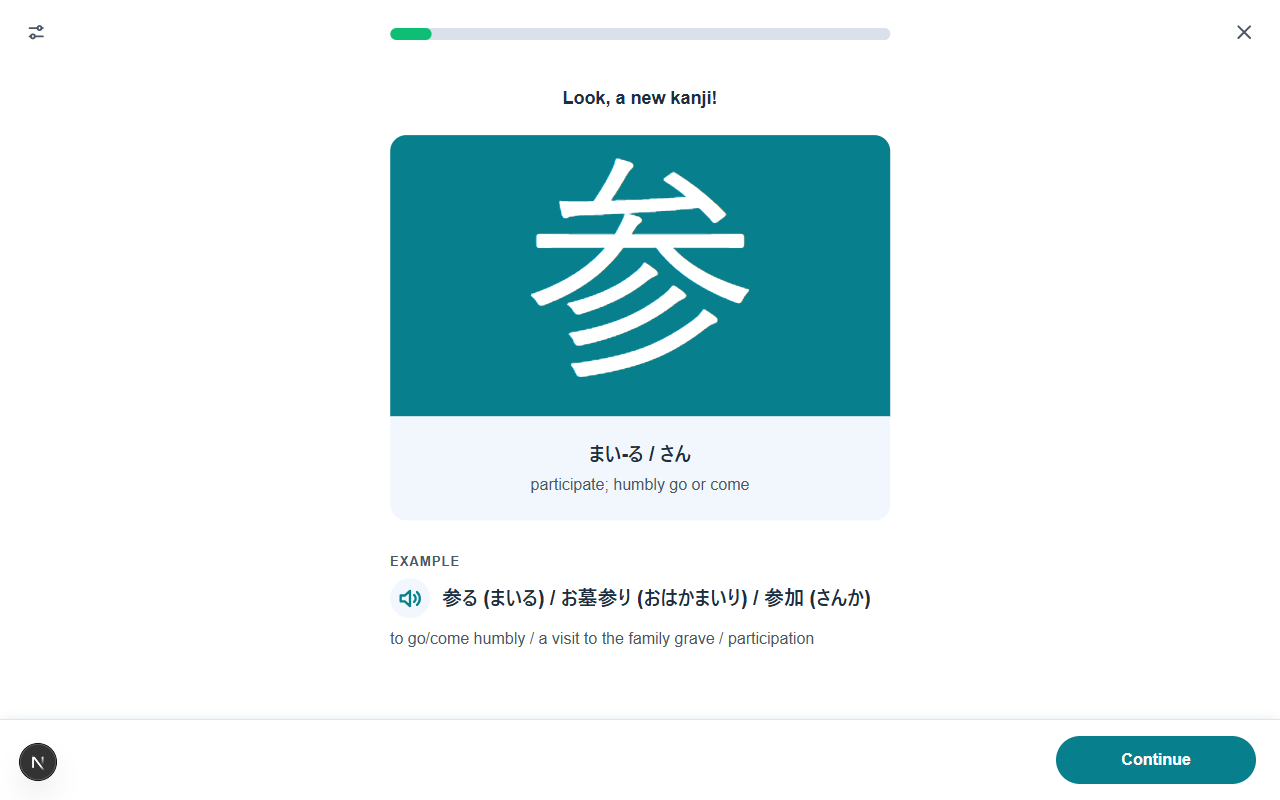
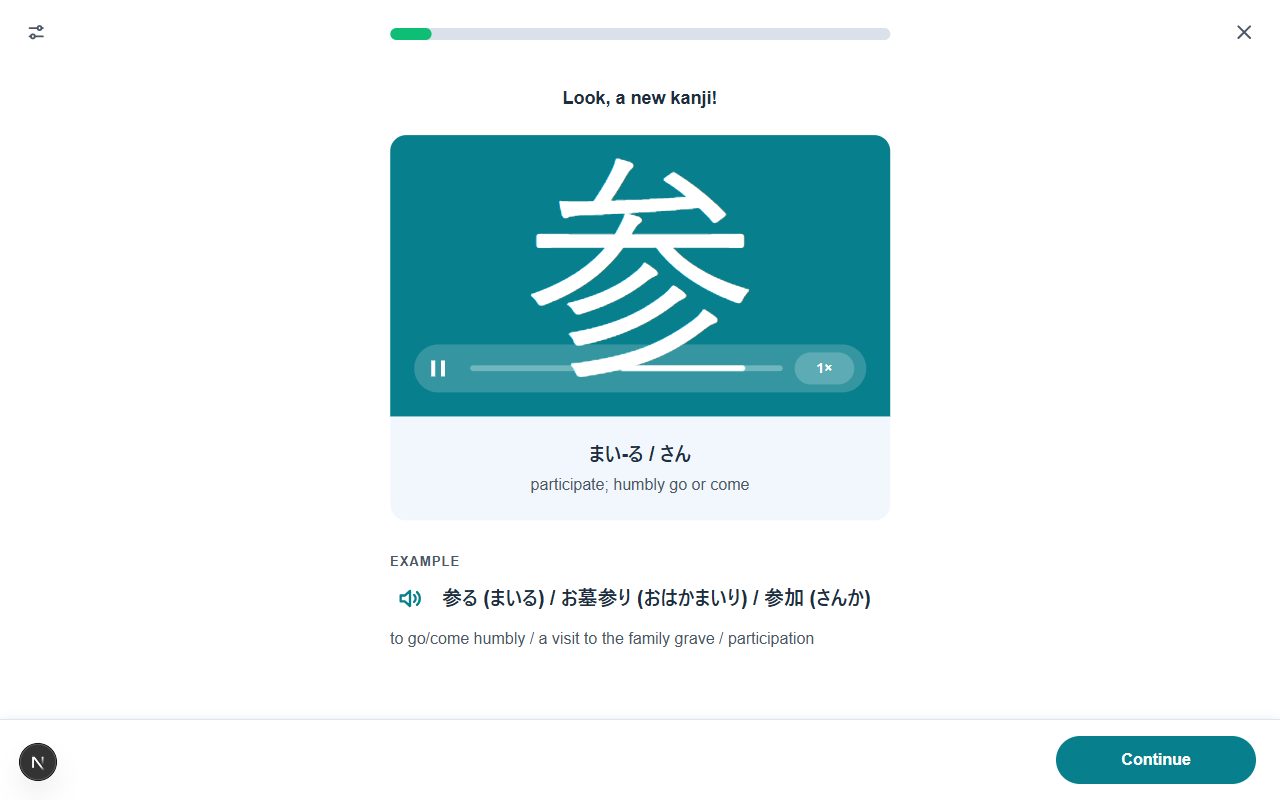
kanji tts fixes

Changed region(s): [[0.3125, 0.4062, 0.6875, 0.5]]

diff --git a/apps/web/components/busuu/LessonRunner.tsx b/apps/web/components/busuu/LessonRunner.tsx
@@ -5,7 +5,7 @@ import { createClient } from '@/utils/supabase/client';
 import { localWalkthroughAuthClient } from '@/lib/busuu/local-walkthrough';
 import { COURSE_EDGE_VOICES, CourseAudioAdapter, readCourseAudioPreferences, type CourseAudioState } from '@/lib/busuu/audio';
 import { createBrowserClipStore } from '@/lib/busuu/audio-cache';
-import { getScreenPlayback, planLessonPrefetch } from '@/lib/busuu/audio-plan';
+import { getKanjiExamplesPlayback, getScreenPlayback, planLessonPrefetch } from '@/lib/busuu/audio-plan';
 import { getAudioScript, getSceneReuse, getScreenAudioGaps, getScreenContentGaps } from '@/lib/busuu/content-readiness';
 import { canContinue, createLessonState, getCurrentOutcome, getLessonResult, getPassOutcome, transitionLesson, type LessonAction } from '@/lib/busuu/runner';
 import { getActivityProgress, getFeedbackHeading, getFeedbackSupport, getFeedbackTargets, handleLessonKey, highlightSegments, isCheckpointPack } from '@/lib/busuu/lesson-presentation';
@@ -65,6 +65,7 @@ export default function LessonRunner({ pack, preview, title, returnHref, onExit 
   const [authChecked, setAuthChecked] = useState(false);
   const [confirmExit, setConfirmExit] = useState(false);
   const [voiceOpen, setVoiceOpen] = useState(false); // appended after the existing state hooks: tests rely on their order
+  const [playing, setPlaying] = useState<'source' | 'examples'>('source'); // which kanji control owns the adapter's current playback
   const adapter = useRef<CourseAudioAdapter | null>(null);
   const owner = useRef<string | null | undefined>(undefined);
   const screen = pack.screens[state.index];
@@ -109,15 +110,16 @@ export default function LessonRunner({ pack, preview, title, returnHref, onExit 
     return () => { subscription.unsubscribe(); window.removeEventListener('pagehide', retire); audio.dispose(); adapter.current = null; session.current?.dispose(); session.current = null; owner.current = undefined; };
   }, [pack, preview]);
 
-  const play = useCallback(async (feedback = false) => {
+  const play = useCallback(async (feedback = false, which: 'source' | 'examples' = 'source') => {
     const audio = adapter.current;
-    const playback = screen && getScreenPlayback(pack, screen, preferences, speed, feedback);
+    const playback = screen && (!feedback && which === 'examples' ? getKanjiExamplesPlayback(screen, preferences, speed) : getScreenPlayback(pack, screen, preferences, speed, feedback));
     if (!playback || !audio || !active) return;
     const screenId = screen.screenId;
+    setPlaying(feedback ? 'source' : which); // requested before the adapter reports its state, so the kanji screen shows only the control that started
     audio.setScreen(screenId);
     const played = playback.kind === 'dialogue' ? await audio.playDialogue(playback.items) : playback.kind === 'words' ? await audio.playSequence(playback.items, playback.gapMs) : await audio.play(playback.item);
     // Playback is optional now, but a completed play still records audio_ready exactly as before so event streams keep their shape.
-    if (played && !feedback) dispatch({ type: 'audio_ready', screenId });
+    if (played && !feedback && which === 'source') dispatch({ type: 'audio_ready', screenId });
   }, [pack, screen, active, preferences, speed, dispatch]);
 
   // Silent background prefetch of the whole lesson's audio into the persistent clip cache, current screen first. It renders and
@@ -297,7 +299,13 @@ export default function LessonRunner({ pack, preview, title, returnHref, onExit 
   const showPlayer = !screen.sceneContext && screen.audio.beforeAnswer !== false && (screen.audio.required || getAudioScript(sceneSource ?? screen));
   const playLabel = audioState.status === 'loading' ? 'Cancel audio' : audioState.status === 'playing' ? 'Pause audio'
     : audioState.status === 'error' ? 'Retry audio' : sceneSource ? 'Replay scene' : 'Replay audio';
-  const kanjiLabel = audioState.status === 'loading' ? 'Cancel audio' : audioState.status === 'playing' ? 'Pause audio' : audioState.status === 'error' ? 'Retry audio' : 'Play examples';
+  // The kanji screen has two controls on one adapter: each shows its own state only while it owns the current playback, the other stays idle.
+  const kanjiPlayer = (which: 'source' | 'examples', noun: string, idle: string) => {
+    const status = playing === which ? audioState.status : 'idle';
+    return { status, disabled: !accountReady || !getAudioScript(screen),
+      label: status === 'loading' ? `Cancel ${noun}` : status === 'playing' ? `Pause ${noun}` : status === 'error' ? `Retry ${noun}` : idle,
+      onToggle: () => status === 'loading' || status === 'playing' ? void adapter.current?.cancel() : play(false, which) };
+  };
   const onToggle = () => audioState.status === 'loading' || audioState.status === 'playing' ? void adapter.current?.cancel() : play();
   const continueNow = () => { adapter.current?.cancel(); dispatch({ type: 'continue', screenId: screen.screenId }); };
   return <main id="course-main" className={styles.shell} ref={shell}>
@@ -327,7 +335,9 @@ export default function LessonRunner({ pack, preview, title, returnHref, onExit 
         <details><summary>View missing fields · {contentGaps.length + audioGaps.length}</summary>
           <ul>{[...contentGaps, ...audioGaps].map((g, i) => <li key={i}>{g.field}: {g.reason}</li>)}</ul></details></aside>}
       {screen.renderer === 'kanji' && screen.kanji
-        ? (contentGaps.length === 0 || state.preview) && <KanjiCard screen={screen} audio={showPlayer ? { status: audioState.status, label: kanjiLabel, disabled: !accountReady || !getAudioScript(screen), onToggle } : null} />
+        ? (contentGaps.length === 0 || state.preview) && <KanjiCard screen={screen} audio={showPlayer ? {
+          readings: kanjiPlayer('source', 'kanji readings', 'Play kanji readings'), examples: kanjiPlayer('examples', 'examples', 'Play examples'),
+          speed, onSpeed: next => { adapter.current?.cancel(); setSpeed(next); }, message: audioState.message, error: audioGaps.length === 0 && audioState.status === 'error' } : null} />
         : (screen.visual !== 'none' || showPlayer) && <div className={styles.mediaCard}>
         {screen.visual !== 'none' && <div className={styles.visualPlaceholder} aria-hidden="true">
           <svg viewBox="0 0 120 80"><circle cx="60" cy="27" r="12" /><path d="M32 68c0-24 56-24 56 0" /></svg>

diff --git a/apps/web/lib/busuu/audio-plan.ts b/apps/web/lib/busuu/audio-plan.ts
@@ -1,4 +1,4 @@
-import { getAudioReading, getAudioScript, getAudioWordList, getSceneReuse } from './content-readiness';
+import { getAudioReading, getAudioScript, getAudioWordList, getKanjiExampleClips, getSceneReuse } from './content-readiness';
 import type { CourseAudioItem } from './audio';
 import type { LessonContentPack, LessonContentScreen } from './types';
 
@@ -7,7 +7,7 @@ export type CoursePlaybackPreferences = { provider: 'edge' | 'voicevox'; edgeVoi
 export const WORD_GAP_MS = 800;
 export type ScreenPlayback = { kind: 'dialogue'; items: CourseAudioItem[] } | { kind: 'single'; item: CourseAudioItem } | { kind: 'words'; items: CourseAudioItem[]; gapMs: number };
 export const playbackItems = (playback: ScreenPlayback): CourseAudioItem[] => playback.kind === 'single' ? [playback.item] : playback.items;
-export type PlannedClip = { screenId: string; screenIndex: number; role: 'source' | 'feedback'; item: CourseAudioItem };
+export type PlannedClip = { screenId: string; screenIndex: number; role: 'source' | 'examples' | 'feedback'; item: CourseAudioItem };
 
 /**
  * The single definition of what a screen plays (source audio or corrected-sentence feedback), shared by the Replay/Check handler
@@ -27,11 +27,20 @@ export function getScreenPlayback(pack: LessonContentPack, screen: LessonContent
   // Feedback replays the same list only when it is the same text (its split readings are then the screen's own); anything else stays a single clip.
   const words = !feedback ? getAudioWordList(source) : screen.audio.feedbackText === screen.audio.text ? getAudioWordList(screen) : null;
   if (words) {
-    return { kind: 'words', gapMs: WORD_GAP_MS, items: words.map(word => ({ text: word.text, reading: word.reading, provider: preferences.provider,
-      voice: preferences.provider === 'edge' ? preferences.edgeVoice : preferences.voiceVoxId, speed })) };
+    return wordsPlayback(words, preferences, speed);
   }
   return { kind: 'single', item: { text, reading: feedback ? undefined : getAudioReading(source), provider: preferences.provider,
     voice: preferences.provider === 'edge' ? preferences.edgeVoice : preferences.voiceVoxId, speed } };
+}
+
+const wordsPlayback = (words: { text: string; reading: string }[], preferences: CoursePlaybackPreferences, speed: number): ScreenPlayback => ({
+  kind: 'words', gapMs: WORD_GAP_MS, items: words.map(word => ({ text: word.text, reading: word.reading, provider: preferences.provider,
+    voice: preferences.provider === 'edge' ? preferences.edgeVoice : preferences.voiceVoxId, speed })) });
+
+/** On-demand second playback of a kanji screen: its example words as a word sequence (the source playback, which autoplays, is the readings). Null elsewhere. */
+export function getKanjiExamplesPlayback(screen: LessonContentScreen, preferences: CoursePlaybackPreferences, speed: number): ScreenPlayback | null {
+  const words = screen.renderer === 'kanji' ? getKanjiExampleClips(screen) : null;
+  return words ? wordsPlayback(words, preferences, speed) : null;
 }
 
 const identityOf = (item: CourseAudioItem) => JSON.stringify([item.provider, item.voice, item.reading ?? '', item.text]);
@@ -40,8 +49,8 @@ const identityOf = (item: CourseAudioItem) => JSON.stringify([item.provider, ite
 function allClips(pack: LessonContentPack, preferences: CoursePlaybackPreferences, speed: number): PlannedClip[] {
   const clips: PlannedClip[] = [];
   pack.screens.forEach((screen, screenIndex) => {
-    for (const role of ['source', 'feedback'] as const) {
-      const playback = getScreenPlayback(pack, screen, preferences, speed, role === 'feedback');
+    for (const role of ['source', 'examples', 'feedback'] as const) {
+      const playback = role === 'examples' ? getKanjiExamplesPlayback(screen, preferences, speed) : getScreenPlayback(pack, screen, preferences, speed, role === 'feedback');
       for (const item of playback ? playbackItems(playback) : []) {
         if (item.text.trim()) clips.push({ screenId: screen.screenId, screenIndex, role, item });
       }

diff --git a/apps/web/components/busuu/LessonScreen.tsx b/apps/web/components/busuu/LessonScreen.tsx
@@ -8,13 +8,27 @@ import type { LessonContentScreen, PairItem, SupportBlock } from '@/lib/busuu/ty
 import { mixed } from './mixed-text';
 import styles from '@/app/busuu/runner.module.css';
 
-export type KanjiAudio = { status: string; label: string; disabled: boolean; onToggle: () => void };
+/** One playback control: `status` is idle | loading | playing | error and is exposed on the tile as data-audio-state so a later stroke animation can follow it. */
+export type KanjiPlayer = { status: string; label: string; disabled: boolean; onToggle: () => void };
+/** `readings` is the player on the glyph tile (the kanji's readings, autoplays); `examples` is the speaker beside the example words. Only one plays at a time. */
+export type KanjiAudio = { readings: KanjiPlayer; examples: KanjiPlayer; speed: number; onSpeed: (speed: number) => void; message: string; error: boolean };
 export function KanjiCard({ screen, audio }: { screen: LessonContentScreen; audio: KanjiAudio | null }) {
   const k = screen.kanji;
   if (!k) return null;
   return <section className={styles.kanjiCard} aria-label="Kanji">
     <div className={styles.kanjiMedia}>
-      <div lang="ja" className={styles.kanjiTile}>{k.character}</div>
+      <div className={styles.kanjiStage} data-audio-state={audio?.readings.status ?? 'idle'}>
+        <div lang="ja" className={styles.kanjiTile}>{k.character}</div>
+        {audio && <div className={styles.kanjiPlayer}>
+          <div className={styles.audioPill} data-state={audio.readings.status}>
+            <button type="button" className={styles.playToggle} aria-label={audio.readings.label} data-state={audio.readings.status} disabled={audio.readings.disabled} onClick={audio.readings.onToggle}>
+              <span className={styles.playIcon} aria-hidden="true" />
+            </button>
+            <span className={styles.audioTrack} aria-hidden="true"><span className={styles.audioFill} /></span>
+            <label className={styles.speed}><span className={styles.srOnly}>Speed</span><select value={audio.speed} aria-label="Playback speed" onChange={e => audio.onSpeed(Number(e.target.value))}><option value={1}>1×</option><option value={0.75}>0.75×</option></select></label>
+          </div>
+        </div>}
+      </div>
       <div className={styles.kanjiCaption}>
         <p lang="ja" className={styles.kanjiReadings}>{k.readings.map(r => r.text).join(' / ')}</p>
         <p className={styles.kanjiMeaning}>{mixed(k.meaning)}</p>
@@ -23,7 +37,7 @@ export function KanjiCard({ screen, audio }: { screen: LessonContentScreen; audi
     <div className={styles.kanjiExamples}>
       <p className={styles.kanjiLabel}>EXAMPLE</p>
       <div className={styles.kanjiWordRow}>
-        {audio && <button type="button" className={styles.kanjiSpeaker} data-state={audio.status} aria-label={audio.label} disabled={audio.disabled} onClick={audio.onToggle}>
+        {audio && <button type="button" className={styles.kanjiSpeaker} data-state={audio.examples.status} aria-label={audio.examples.label} disabled={audio.examples.disabled} onClick={audio.examples.onToggle}>
           <svg viewBox="0 0 24 24" aria-hidden="true" fill="none" stroke="currentColor" strokeWidth="2" strokeLinecap="round" strokeLinejoin="round">
             <path d="M4 9.5v5h3.5L12 18.5v-13L7.5 9.5H4z" /><path d="M15.5 9a4 4 0 0 1 0 6" /><path d="M18 6.5a7.5 7.5 0 0 1 0 11" />
           </svg>
@@ -31,6 +45,8 @@ export function KanjiCard({ screen, audio }: { screen: LessonContentScreen; audi
         <p lang="ja" className={styles.kanjiWords}>{k.examples.map(e => `${e.word} (${e.reading})`).join(' / ')}</p>
       </div>
       <p className={styles.kanjiGloss}>{mixed(k.examples.map(e => e.meaning).join(' / '))}</p>
+      {audio && <p className={styles.srOnly} role="status">{audio.error ? '' : audio.message}</p>}
+      {audio?.error && <p className={styles.audioError} role="alert">{audio.message}</p>}
     </div>
   </section>;
 }

diff --git a/apps/web/lib/busuu/content-readiness.ts b/apps/web/lib/busuu/content-readiness.ts
@@ -23,7 +23,17 @@ export function splitAudioList(text: string | null | undefined, reading: string 
 }
 /** Screens whose source audio is a list of separate words rather than a sentence; played one clip per word with a pause between (see audio-plan WORD_GAP_MS): kanji example words and "A ／ B" / "A → B" lists. */
 export const getAudioWordList = (s: LessonContentScreen): { text: string; reading: string }[] | null =>
-  kanjiExamples(s)?.map(e => ({ text: e.word, reading: e.reading })) ?? (s.renderer === 'kanji' || s.renderer === 'dialogue' ? null : splitAudioList(s.audio.text, s.audio.reading));
+  s.renderer === 'kanji' ? getKanjiReadingClips(s) ?? getKanjiExampleClips(s) : s.renderer === 'dialogue' ? null : splitAudioList(s.audio.text, s.audio.reading);
+/** The example words of a kanji screen, one clip each (text = word, reading = its kana reading). The example speaker plays these. */
+export const getKanjiExampleClips = (s: LessonContentScreen): { text: string; reading: string }[] | null => kanjiExamples(s)?.map(e => ({ text: e.word, reading: e.reading })) ?? null;
+/**
+ * The kanji's own readings shown in the caption, one clip each, with the okurigana hyphen removed ("まい-る" becomes "まいる"). The kana is both the
+ * text and the reading. Other separators (for example "ばい・ぱい") are passed through unchanged, never guessed at. This is the kanji screen's source audio.
+ */
+export const getKanjiReadingClips = (s: LessonContentScreen): { text: string; reading: string }[] | null => {
+  const clips = s.renderer === 'kanji' ? (s.kanji?.readings ?? []).map(r => r.text.replace(/[-‐‑–]/g, '').trim()).filter(Boolean).map(t => ({ text: t, reading: t })) : [];
+  return clips.length ? clips : null;
+};
 /** Kanji screens play their example words (not the example sentences); the script joins them, e.g. "参る、参加", and is used for readiness and display gating. */
 export const getAudioScript =(s: LessonContentScreen) => s.renderer === 'dialogue'
   ? s.dialogue?.turns.length && s.dialogue.turns.every(t => text(t.japanese)) ? s.dialogue.turns.map(t => t.japanese).join('\n') : null

diff --git a/apps/web/app/busuu/runner.module.css b/apps/web/app/busuu/runner.module.css
@@ -167,6 +167,9 @@
 .kanjiGlyph { display: grid; place-items: center; justify-self: center; width: 132px; height: 132px; border: 1px solid var(--c-border); border-radius: 16px; font-size: 5rem; background: linear-gradient(90deg, transparent 49.5%, #e2e8f0 50%, transparent 50.5%), linear-gradient(transparent 49.5%, #e2e8f0 50%, transparent 50.5%); }
 .kanjiCard { display: grid; gap: 32px; margin-bottom: 24px; }
 .kanjiMedia { overflow: hidden; border-radius: 16px; }
+.kanjiStage { position: relative; }
+.kanjiPlayer { position: absolute; left: 24px; right: 24px; bottom: 24px; }
+.kanjiPlayer .audioPill { background: rgba(255, 255, 255, 0.18); }
 .kanjiTile { display: grid; place-items: center; aspect-ratio: 16 / 9; background: var(--c-primary); color: var(--c-primary-ink); font-size: clamp(120px, 38vw, 240px); line-height: 1; font-family: inherit; }
 .kanjiCaption { display: grid; gap: 4px; padding: 24px; text-align: center; background: var(--c-surface-soft); }
 .kanjiCaption p { margin: 0; }
